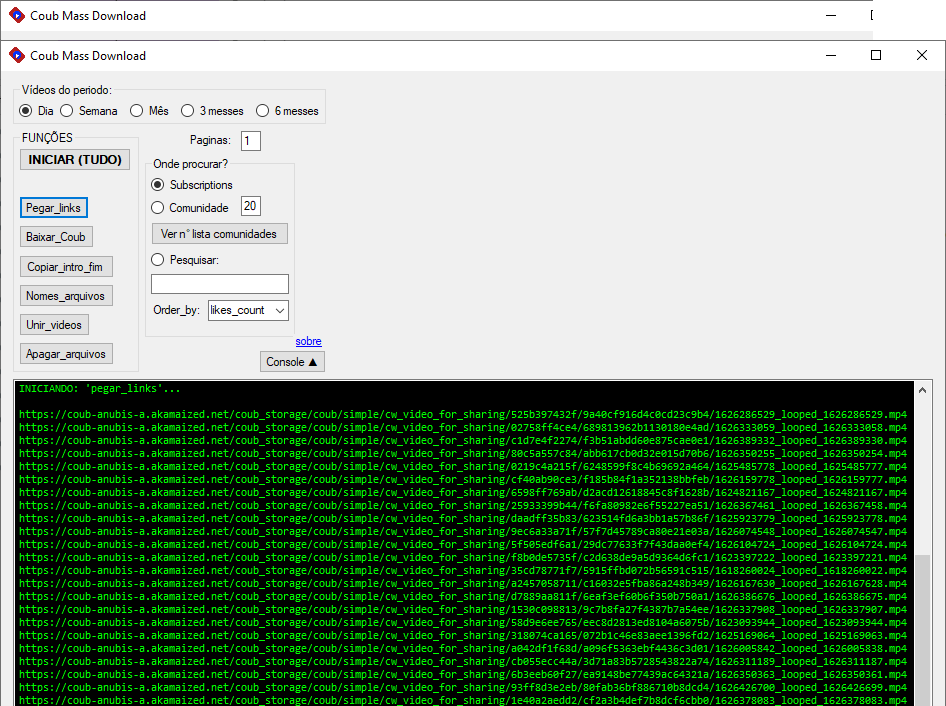
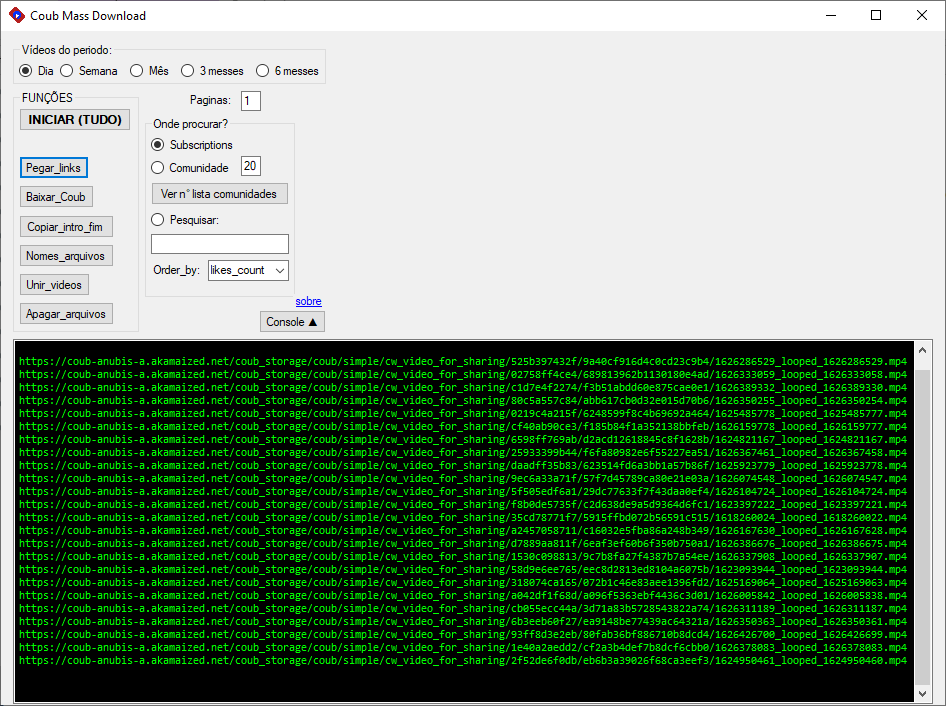
OK

Changed region(s): [[0.0, 0.0623, 1.0, 1.0], [0.9503, 0.0, 0.981, 0.0312], [0.1533, 0.0935, 0.1839, 0.1246]]

diff --git a/README.md b/README.md
@@ -1,1 +1,152 @@
-# Coub_Mass_Download
+# Coub Mass Download
+Programa em C# windows forms .NET Framework 4.7.2
+<br><br>
+Com o objetivo de realizar:
+<br>
+&nbsp;•Download massiso de vídeos do coub com alguns 'filtros' de busca, e unifica todos os vídeos.
+
+Exemplo do Vídeo gerado
+--------- 
+ [Assistir no YOUTUBE](https://youtu.be/utNNAbg-Zuk)<br>
+<a href="https://youtu.be/utNNAbg-Zuk
+" target="_blank"><img src="https://raw.githubusercontent.com/DanielSvoboda/Coub_Mass_Download/main/Download/logo/logo2.jpg" 
+alt="Texto ALT da imagem aqui" width="300" height="200" border="10" /></a>
+
+  
+Funções 
+---------  
+&nbsp;•Pegar_links&nbsp;&nbsp;&nbsp;&nbsp;&nbsp;&nbsp;&nbsp;&nbsp;&nbsp;&nbsp;(Faz um get no coub com o link personalisado da busca, retona um json)<br>
+&nbsp;•Baixar_Coub&nbsp;&nbsp;&nbsp;&nbsp;&nbsp;&nbsp;&nbsp;&nbsp;(Baixar os arquivos referente aos link's armazenados na variavel links_coub)<br>
+&nbsp;•Copiar_intro_fim&nbsp;(Copiar 2 arquivos de vídeo, que seram usados na frente e no final do vídeo)<br>
+&nbsp;•Nomes_arquivos&nbsp;(Salva os nome dos arquivos .mp4 da pasta /videos em nome_dos_arquivos.txt<br>
+&nbsp;&nbsp;&nbsp;&nbsp;&nbsp;&nbsp;&nbsp;&nbsp;&nbsp;&nbsp;&nbsp;&nbsp;&nbsp;&nbsp;&nbsp;&nbsp;&nbsp;&nbsp;&nbsp;&nbsp;&nbsp;esse arquivo contem os nomes em ordem alfabetica tendo o (intro)1.mp4 primeiro e (fim)z.mp4 em ultimo)<br>
+&nbsp;•Unir_videos&nbsp;&nbsp;&nbsp;&nbsp;&nbsp;&nbsp;&nbsp;&nbsp;&nbsp;(Unifica todos esses vídeos na ordem e gera o output.mp4, mantendo o aspect ratio original individualmente)<br>
+&nbsp;•Apagar_arquivos&nbsp;(Apaga dos os arquivos da pasta /videos)<br>
+  <br>
+  
+Print's
+---------  
+<img width="300" alt="portfolio_view" src="https://raw.githubusercontent.com/DanielSvoboda/Coub_Mass_Download/main/1.png">
+<br>Botão cosole<br>
+<img width="750" alt="portfolio_view" src="https://raw.githubusercontent.com/DanielSvoboda/Coub_Mass_Download/main/2.png">
+<br>
+
+Depêndencia 
+---------  
+  •Newtonsoft.Json https://www.nuget.org/packages/Newtonsoft.Json/
+<br><br><br>
+  
+Observações
+---------  
+O arquivo ffmpeg tem que estar na mesma pasta do Coub_Mass_Download.exe, juntamente com todos os outros arquivos.
+<br> Para funcionar é necessario baixar todo o conteudo da pasta: [DOWNLOAD](https://github.com/DanielSvoboda/Coub_Mass_Download/tree/main/Download)
+<br><br>
+Aproximadamente: <br>
+Total vídeo = 25 vídeos * Paginas <br>
+Tempo total(min) = Total vídeo*<>10/60
+<br><br>
+Tentei unificar vídeos com quantidade diferentes de fps, porem, mesmo renderizando com formas específicos e parametros de encoding não tive bons resultados para criar um arquivo compativel da intro.mp4 e fim.mp4, tentei parametros diferentes no ffmpeg tambem sem exito. Então encodei a 'intro' e 'fim' usando a propria função Unir_videos, no nome_dos_arquivos.txt inclui apenas o intro.mp4 e repeti o processo com o fim.mp4, gerando o output.mp4 desse unico arquivo que renomeie para o nome anterior, e assim ele ficou igual aos demais que são baixados do coub e não tem problemas de desincronia dos frames do audio e do vídeo.
+<br><b>
+Comando ffmpeg da função Unir_vídeos:<br>
+ffmpeg -safe 0 -f concat -i videos/nome_dos_arquivos.txt -vf scale=iw*min(1280/iw\,720/ih):ih*min(1280/iw\,720/ih),pad=1280:720:(1280-iw*min(1280/iw\,720/ih))/2:(720-ih*min(1280/iw\,720/ih))/2 output.mp4";
+<br><br><br>
+
+
+
+FFmpeg
+---------  
+- Esse programa usa o [FFmpeg](http://ffmpeg.org), uma estrutura de multimídia gratuita que é licenciada sob a [LGPLv2.1 license](http://www.gnu.org/licenses/old-licenses/lgpl-2.1.html)  contendo vários codecs de áudio e vídeo, suportando tarefas de muxing, demuxing e transcodificação em muitos formatos de mídia.
+
+This is a FFmpeg Win32 static build by Kyle Schwarz.<br>
+<br>
+Zeranoe's FFmpeg Builds Home Page: <http://ffmpeg.zeranoe.com/builds/><br>
+<br>
+This build was compiled on: , at: 22:01:02<br>
+<br>
+FFmpeg version: 2014-02-04 git-e708424<br>
+  libavutil      52. 63.100 / 52. 63.100<br>
+  libavcodec     55. 49.101 / 55. 49.101<br>
+  libavformat    55. 29.101 / 55. 29.101<br>
+  libavdevice    55.  7.100 / 55.  7.100<br>
+  libavfilter     4.  1.102 /  4.  1.102<br>
+  libswscale      2.  5.101 /  2.  5.101<br>
+  libswresample   0. 17.104 /  0. 17.104<br>
+  libpostproc    52.  3.100 / 52.  3.100<br>
+<br>
+This FFmpeg build was configured with:<br>
+  --enable-gpl<br>
+  --enable-version3<br>
+  --disable-w32threads<br>
+  --enable-avisynth<br>
+  --enable-bzlib<br>
+  --enable-fontconfig<br>
+  --enable-frei0r<br>
+  --enable-gnutls<br>
+  --enable-iconv<br>
+  --enable-libass<br>
+  --enable-libbluray<br>
+  --enable-libcaca<br>
+  --enable-libfreetype<br>
+  --enable-libgsm<br>
+  --enable-libilbc<br>
+  --enable-libmodplug<br>
+  --enable-libmp3lame<br>
+  --enable-libopencore-amrnb<br>
+  --enable-libopencore-amrwb<br>
+  --enable-libopenjpeg<br>
+  --enable-libopus<br>
+  --enable-librtmp<br>
+  --enable-libschroedinger<br>
+  --enable-libsoxr<br>
+  --enable-libspeex<br>
+  --enable-libtheora<br>
+  --enable-libtwolame<br>
+  --enable-libvidstab<br>
+  --enable-libvo-aacenc<br>
+  --enable-libvo-amrwbenc<br>
+  --enable-libvorbis<br>
+  --enable-libvpx<br>
+  --enable-libwavpack<br>
+  --enable-libx264<br>
+  --enable-libxavs<br>
+  --enable-libxvid<br>
+  --enable-zlib<br>
+<br><br>
+This build was compiled with the following external libraries:<br>
+  bzip2 1.0.6 <http://bzip.org/><br>
+  Fontconfig 2.10.95 <http://freedesktop.org/wiki/Software/fontconfig><br>
+  Frei0r 20130909-git-10d8360 <http://frei0r.dyne.org/><br>
+  GnuTLS 3.2.8.1 <http://gnutls.org/><br>
+  libiconv 1.14 <http://gnu.org/software/libiconv/><br>
+  libass 0.10.2 <http://code.google.com/p/libass/><br>
+  libbluray 0.5.0 <http://videolan.org/developers/libbluray.html><br>
+  libcaca 0.99.beta18 <http://caca.zoy.org/wiki/libcaca><br>
+  FreeType 2.5.2 <http://freetype.sourceforge.net/><br>
+  GSM 1.0.13-4 <http://packages.debian.org/source/squeeze/libgsm><br>
+  iLBC 20120913-git-b5f9b10 <https://github.com/dekkers/libilbc/><br>
+  Modplug-XMMS 0.8.8.4 <http://modplug-xmms.sourceforge.net/><br>
+  LAME 3.99.5 <http://lame.sourceforge.net/><br>
+  OpenCORE AMR 0.1.3 <http://sourceforge.net/projects/opencore-amr/><br>
+  OpenJPEG 1.5.1 <http://www.openjpeg.org/><br>
+  Opus 1.1 <http://opus-codec.org/><br>
+  RTMPDump 20131205-git-dc76f0a <http://rtmpdump.mplayerhq.hu/><br>
+  Schroedinger 1.0.11 <http://diracvideo.org/><br>
+  libsoxr 0.1.1 <http://sourceforge.net/projects/soxr/><br>
+  Speex 1.2rc1 <http://speex.org/><br>
+  Theora 1.1.1 <http://theora.org/><br>
+  TwoLAME 0.3.13 <http://twolame.org/><br>
+  vid.stab 0.98 <http://public.hronopik.de/vid.stab/><br>
+  VisualOn AAC 0.1.3 <https://github.com/mstorsjo/vo-aacenc><br>
+  VisualOn AMR-WB 0.1.2 <https://github.com/mstorsjo/vo-amrwbenc><br>
+  Vorbis 1.3.4 <http://vorbis.com/><br>
+  vpx 1.3.0 <http://webmproject.org/><br>
+  WavPack 4.70.0 <http://wavpack.com/><br>
+  x264 20140121-git-956c8d8 <http://videolan.org/developers/x264.html><br>
+  XAVS svn-r55 <http://xavs.sourceforge.net/><br>
+  Xvid 1.3.2 <http://xvid.org/><br>
+  zlib 1.2.8 <http://zlib.net/><br>
+<br><br>
+The source code for this FFmpeg build can be found at: <http://ffmpeg.zeranoe.com/builds/source/><br>
+This build was compiled on Debian jessie/sid (64-bit): <http://www.debian.org/><br>
+GCC 4.8.2 was used to compile this FFmpeg build: <http://gcc.gnu.org/><br>
+This build was compiled using the MinGW-w64 toolchain: <http://mingw-w64.sourceforge.net/><br>
